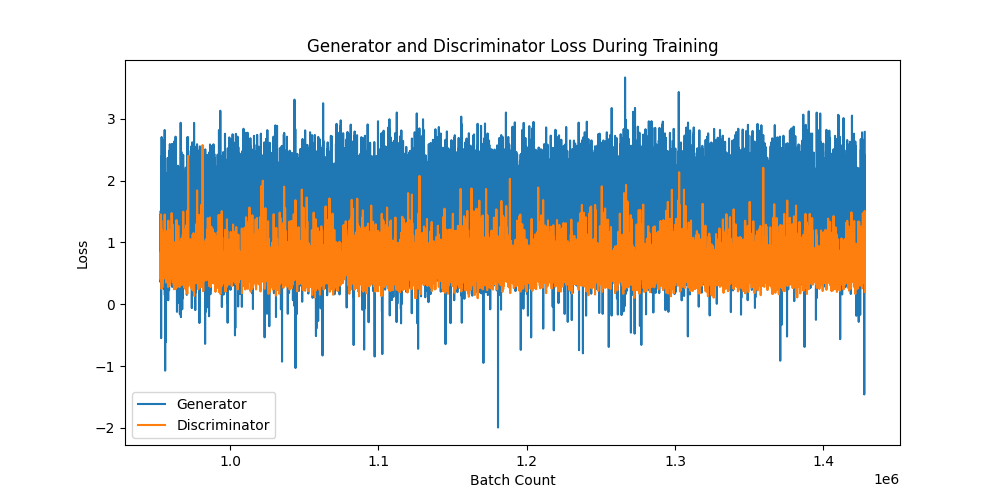
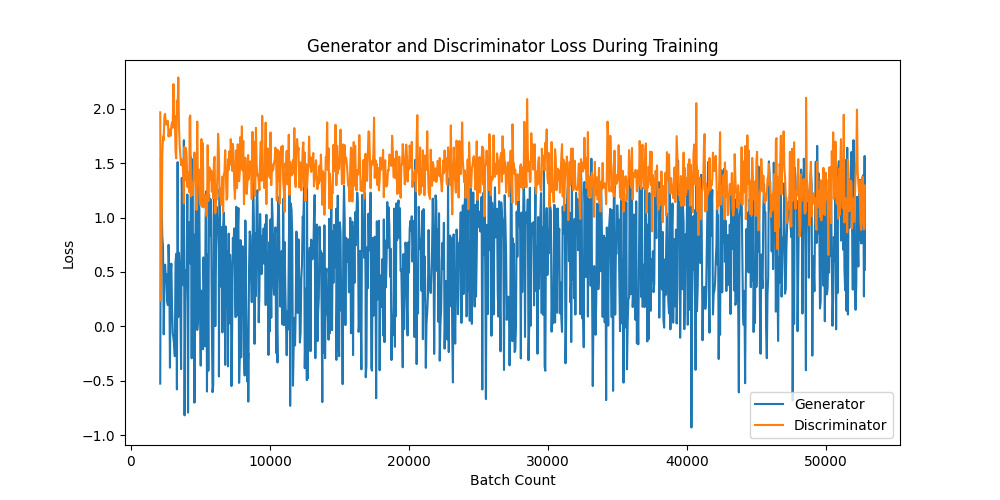
trying to get better images with SAGAN

diff --git a/8Layer/8Layer-128x128-SAGAN-2.py b/8Layer/8Layer-128x128-SAGAN-2.py
@@ -53,8 +53,8 @@ def main():
         axes[i].imshow(np.transpose(image.numpy(), (1, 2, 0)))  # Directly use numpy and transpose here
         axes[i].axis('off')  # Turn off axes for cleaner look
 
-    base = '../produced_images/SAGAN'
-    model_base = '../checkpoints/SAGAN'
+    base = '../produced_images/SAGAN-2'
+    model_base = '../checkpoints/SAGAN-2'
 
     plt.savefig(os.path.join(base, 'celeba_sample_128.png'))
     plt.close(fig)
@@ -130,13 +130,13 @@ def main():
                 fixed_noise = torch.randn(global_batch_size, 100, 1, 1, device=device)
                 generate_images(netG, base, fixed_noise, label=f'Epoch-{epoch}')
                 generate_loss_graphs(gen_loss, dis_loss, batch_count, base)
-                torch.save(netG.state_dict(), os.path.join(model_base, 'Gen-6Layer-128x128-SAGAN.pth'))
-                torch.save(netD.state_dict(), os.path.join(model_base, 'Dis-6Layer-128x128-SAGAN.pth'))
+                torch.save(netG.state_dict(), os.path.join(model_base, f'Gen-8Layer-128x128-SAGAN-2-{epoch}.pth'))
+                torch.save(netD.state_dict(), os.path.join(model_base, f'Dis-8Layer-128x128-SAGAN-2-{epoch}.pth'))
 
     print("Training is complete!")
 
     # Save the trained model
-    torch.save(netG.state_dict(), os.path.join(model_base, 'Gen-6Layer-128x128-SAGAN.pth'))
+    torch.save(netG.state_dict(), os.path.join(model_base, 'Gen-8Layer-128x128-SAGAN-2.pth'))
 
     fixed_noise = torch.randn(global_batch_size, 100, 1, 1, device=device)
     generate_images(netG, base, fixed_noise, label='Final')
@@ -170,7 +170,12 @@ class Generator(nn.Module):
         super(Generator, self).__init__()
         self.main = nn.Sequential(
             # input is Z, going into a convolution
-            utils.spectral_norm(nn.ConvTranspose2d(100, 1024, 4, 1, 0, bias=False)),
+            utils.spectral_norm(nn.ConvTranspose2d(100, 2048, 4, 1, 0, bias=False)),
+            nn.BatchNorm2d(2048),
+            nn.ReLU(True),
+            # state size. 2048 x 4 x 4
+
+            utils.spectral_norm(nn.ConvTranspose2d(2048, 1024, 4, 1, 0, bias=False)),
             nn.BatchNorm2d(1024),
             nn.ReLU(True),
             # state size. 1024 x 4 x 4
@@ -201,8 +206,6 @@ class Generator(nn.Module):
             nn.BatchNorm2d(64),
             nn.ReLU(True),
             # state size. 64 x 64 x 64
-
-            # SelfAttention(64), # Self-Attention Layer
 
             utils.spectral_norm(nn.ConvTranspose2d(64, 3, 4, 2, 1, bias=False)),  # Output 3 channels for RGB
             nn.Tanh()
